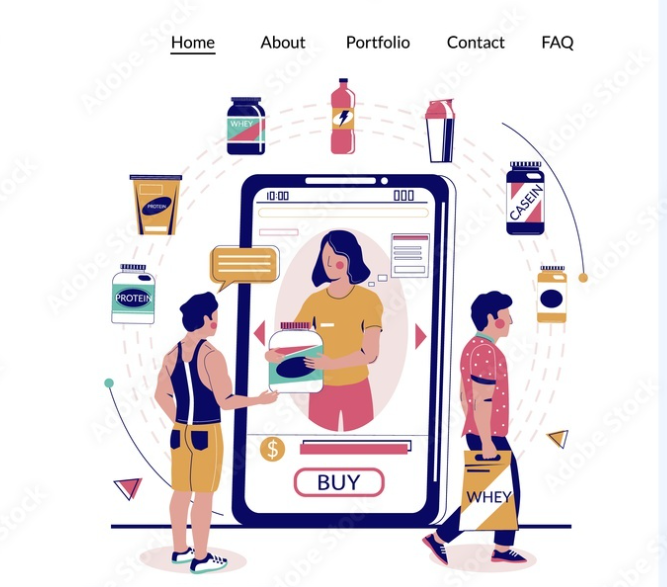
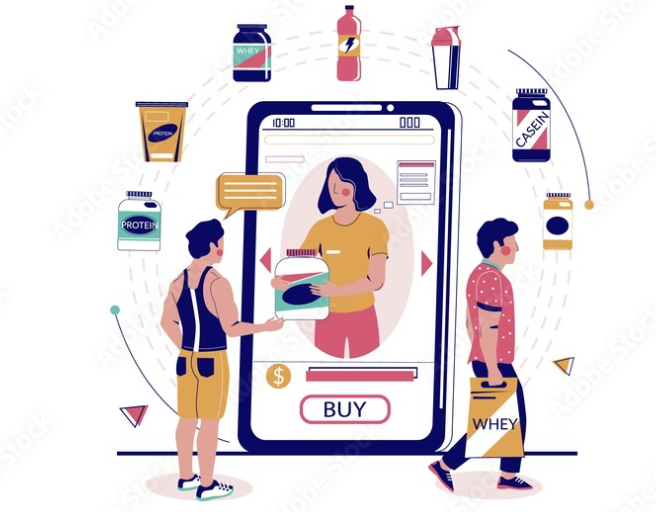
se insertarón las 3 imagenes

diff --git a/index.html b/index.html
@@ -36,8 +36,8 @@
     <body>
 
         <a href="https://www.freepik.es/vector-gratis/nutricion-deportiva-dieta-mejorar-rendimiento-deportivo-vitaminas-proteinas-suplementos-deportes-fuerza-halterofilia-culturismo-ilustracion-metafora-concepto-aislado-vector_11663531.htm#query=suplementos%20deportivos&position=12&from_view=keyword"><img src="images/suplemento1.png" width="600"> </a>
-        <a href="https://stock.adobe.com/co/search?as_audience=idp&as_campaign=Freepik&get_facets=1&order=relevance&safe_search=1&search_page=0&as_content=api&k=supplements%2C+protein&filterscontent_typezip_vector=1&tduid=ae25ffacc30089d07e5f61855adc80a6&as_channel=affiliate&as_campclass=redirect&as_source=arvato&asset_id=511568075"><img src="images/suplemento2.png" width="600"></a>
-        <a href="https://stock.adobe.com/co/search?filters%5Bcontent_type%3Aphoto%5D=1&filters%5Bcontent_type%3Aillustration%5D=1&filters%5Bcontent_type%3Azip_vector%5D=1&filters%5Bcontent_type%3Avideo%5D=1&filters%5Bcontent_type%3Atemplate%5D=1&filters%5Bcontent_type%3A3d%5D=1&filters%5Bcontent_type%3Aimage%5D=1&k=supplements%2C+protein+aplication&order=relevance&safe_search=1&search_page=1&search_type=usertyped&acp=&aco=supplements%2C+protein+aplication&get_facets=0&asset_id=334359088"><img src="images/suplemento3.png" width="600"></a>
+        <a href="https://stock.adobe.com/co/search?filters%5Bcontent_type%3Aphoto%5D=1&filters%5Bcontent_type%3Aillustration%5D=1&filters%5Bcontent_type%3Azip_vector%5D=1&filters%5Bcontent_type%3Avideo%5D=1&filters%5Bcontent_type%3Atemplate%5D=1&filters%5Bcontent_type%3A3d%5D=1&filters%5Bcontent_type%3Aimage%5D=1&k=supplements%2C+protein+aplication&order=relevance&safe_search=1&search_page=1&search_type=usertyped&acp=&aco=supplements%2C+protein+aplication&get_facets=0&asset_id=517780008"><img src="images/suplemento2.PNG" width="650"></a>
+        <a href="https://stock.adobe.com/co/search?filters%5Bcontent_type%3Aphoto%5D=1&filters%5Bcontent_type%3Aillustration%5D=1&filters%5Bcontent_type%3Azip_vector%5D=1&filters%5Bcontent_type%3Avideo%5D=1&filters%5Bcontent_type%3Atemplate%5D=1&filters%5Bcontent_type%3A3d%5D=1&filters%5Bcontent_type%3Aimage%5D=1&k=supplements%2C+protein+aplication&order=relevance&safe_search=1&search_page=1&search_type=usertyped&acp=&aco=supplements%2C+protein+aplication&get_facets=0&asset_id=334359088"><img src="images/suplemento3.PNG" width="600"></a>
 
     </body>
 </html>
